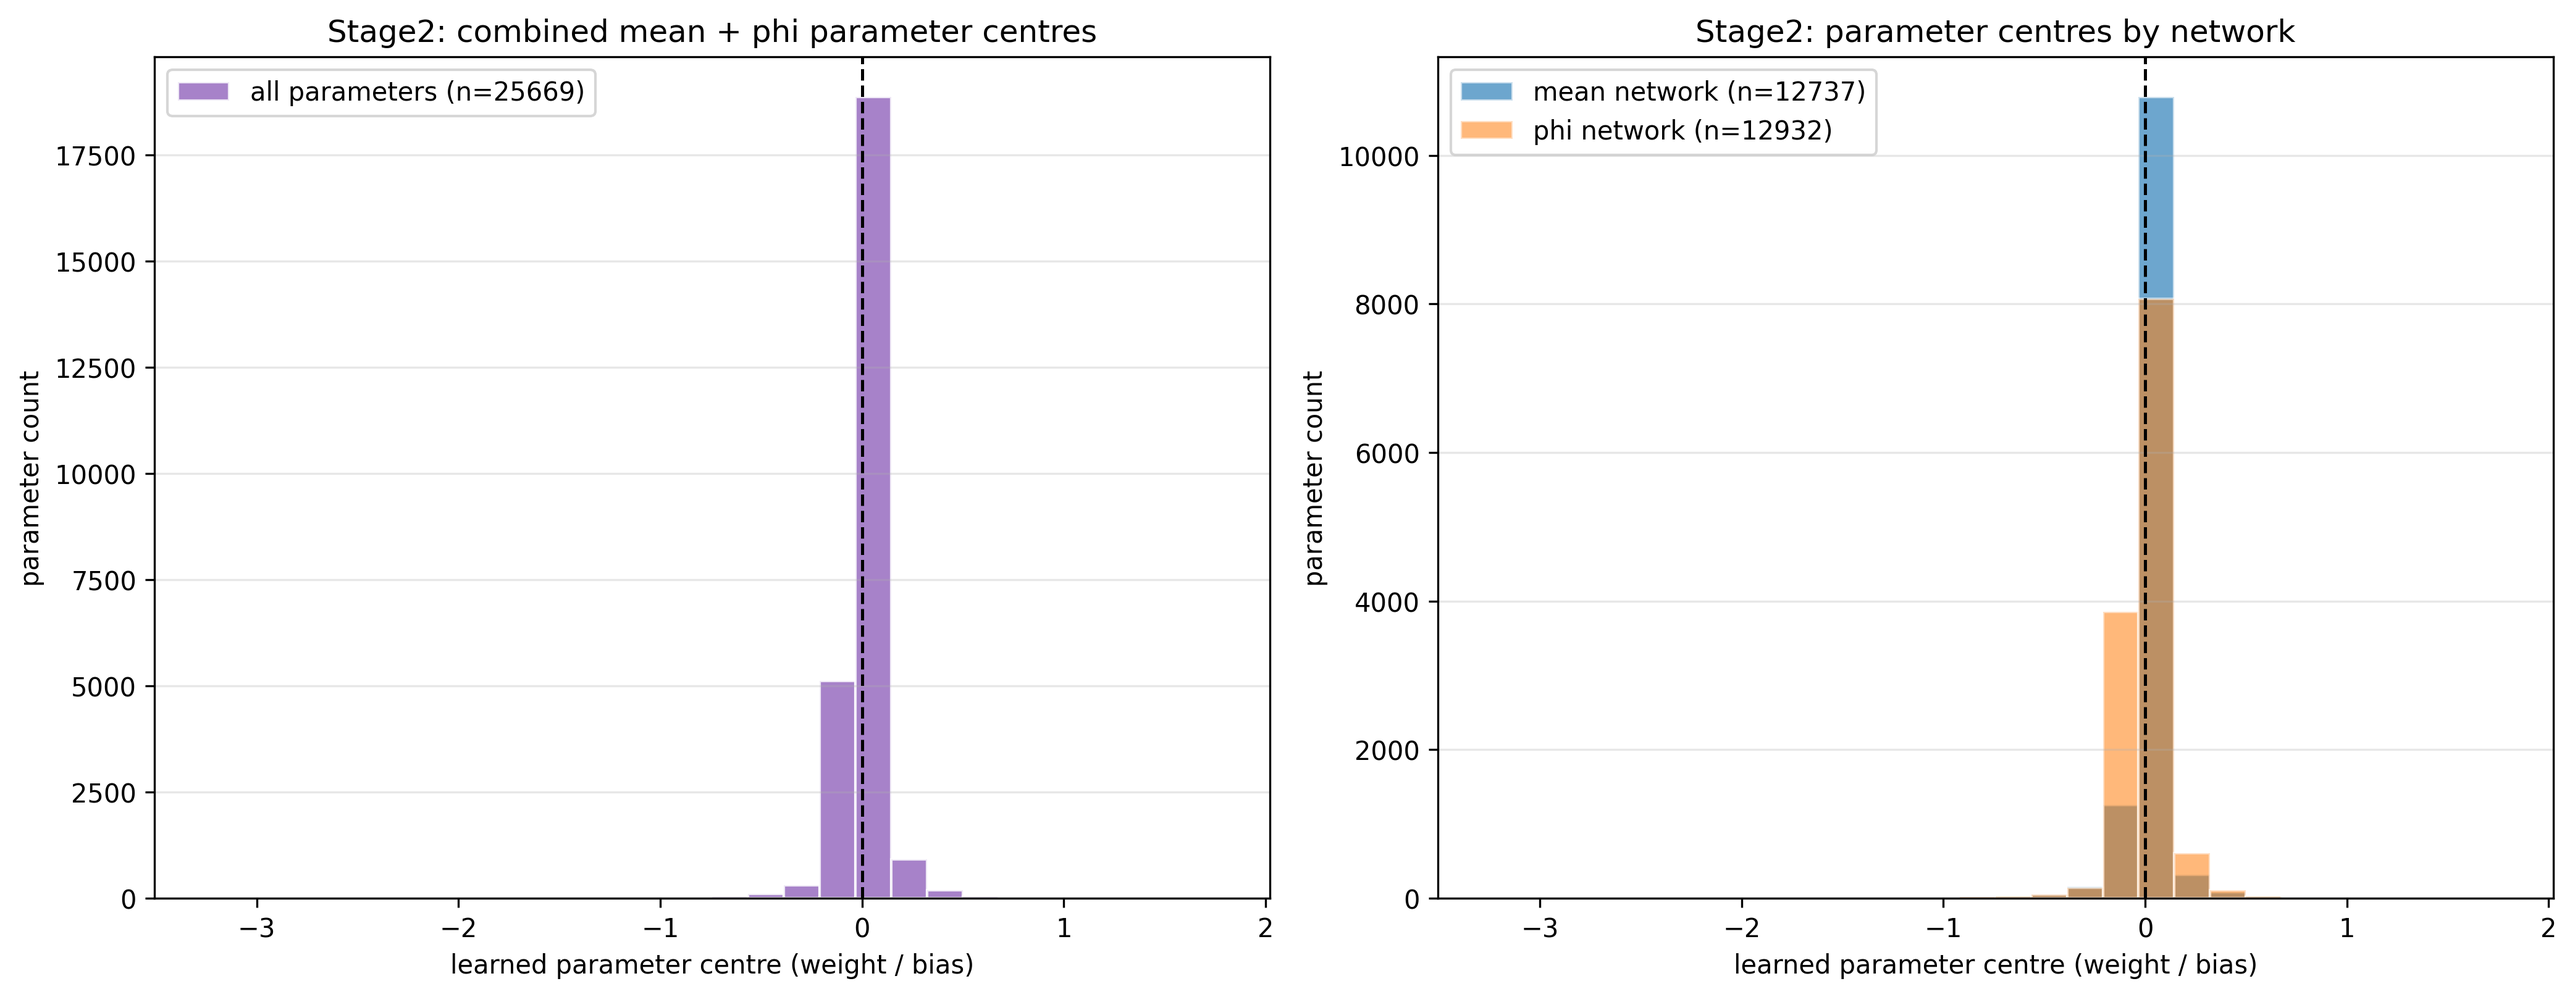
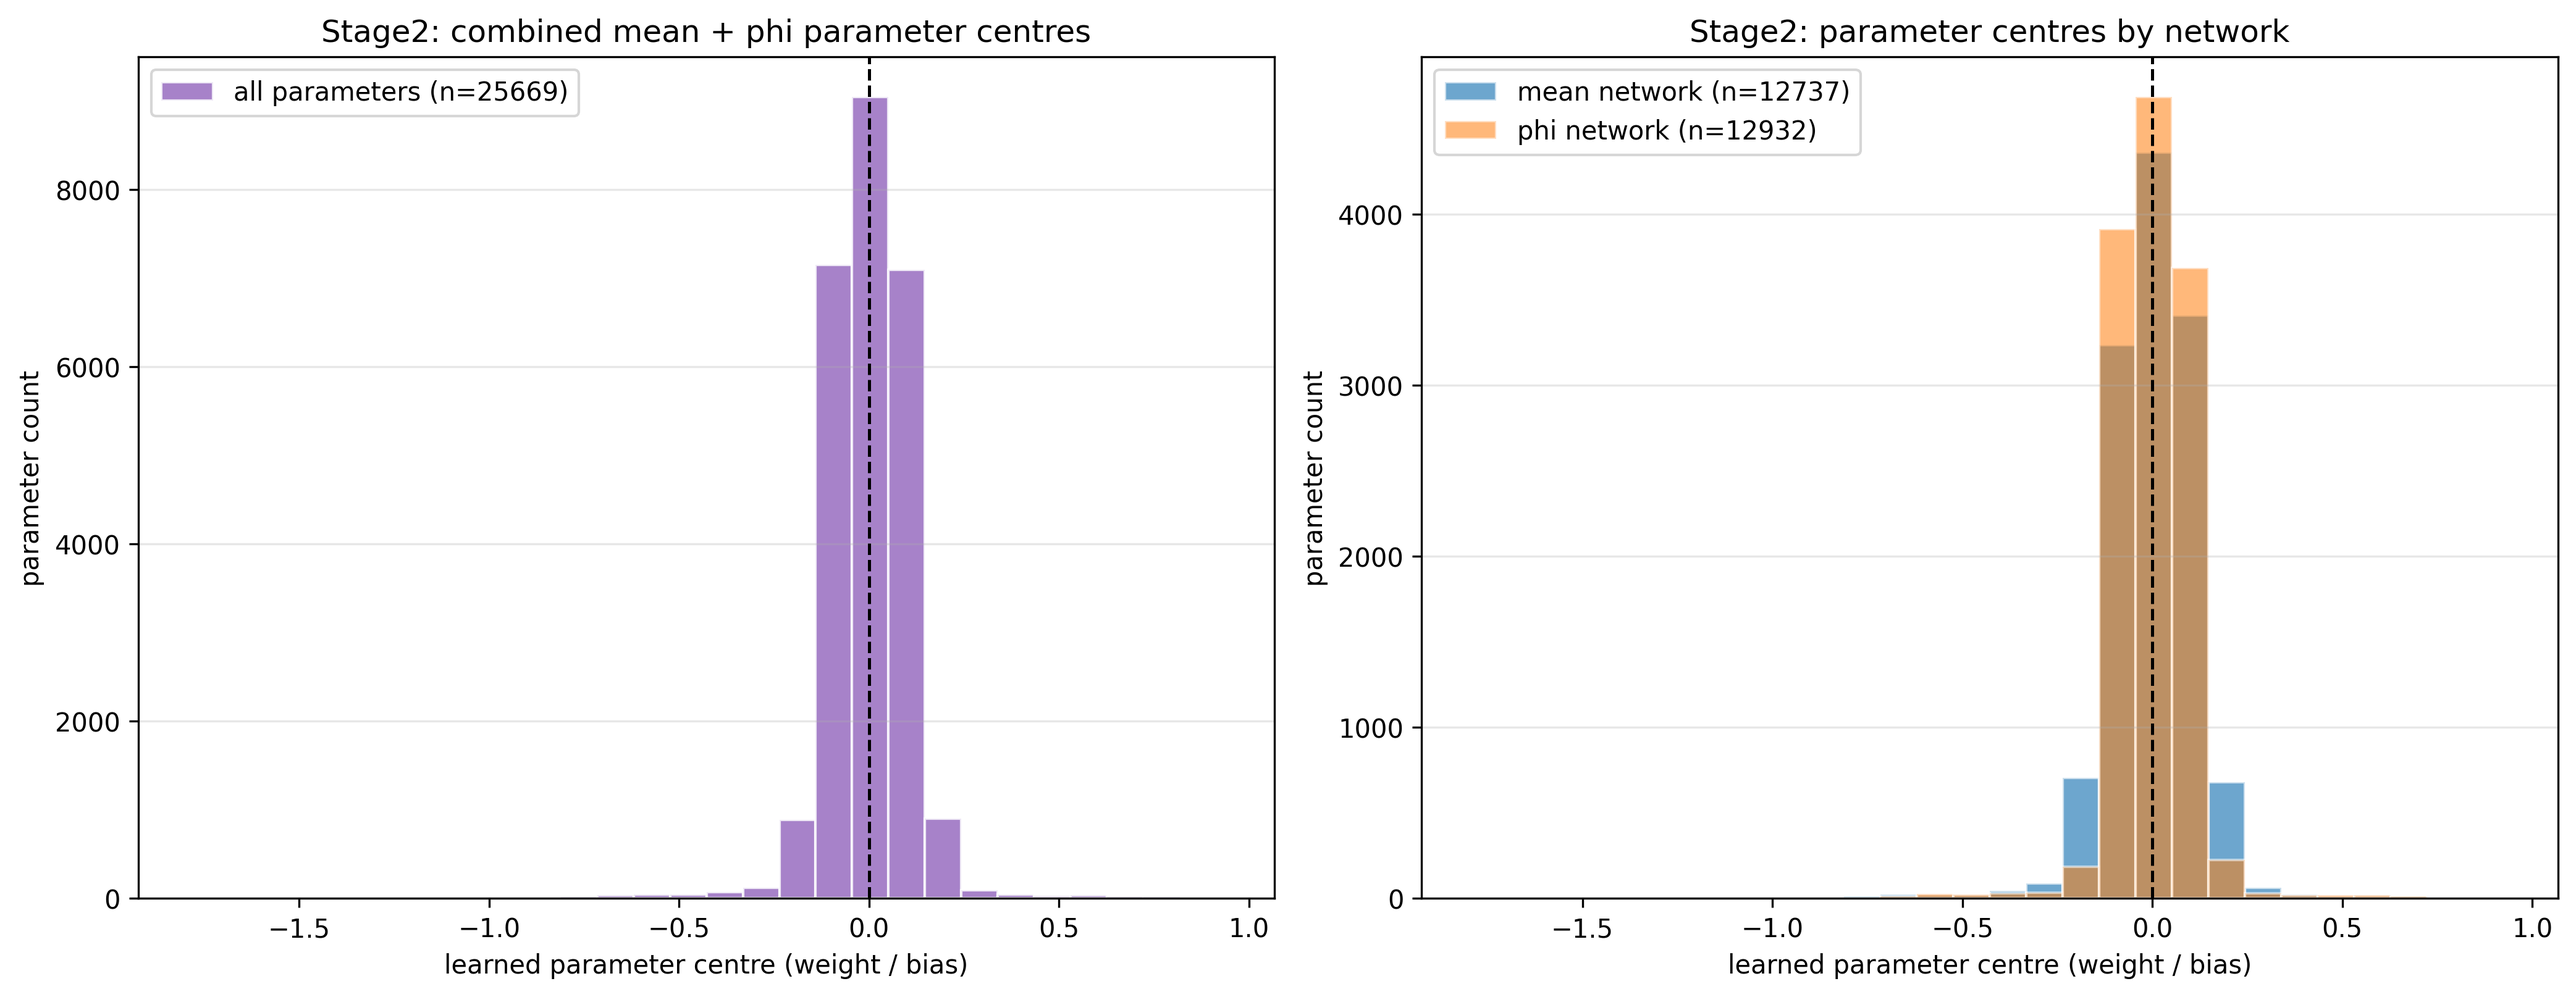
Delete guide loss in stage 2, since NN param mean is no longer trained in stage 2

diff --git a/learner.py b/learner.py
@@ -379,7 +379,7 @@ class Train(utils.ITrainAttrLog):
         else:
             loss, loss_nll, loss_kl = self.model.loss(
                 x_batch, y_batch, use_sampling=use_sampling, include_kl=True,
-                include_mean_guide=True, include_phi_guide=True)
+                include_mean_guide=False, include_phi_guide=False)
         loss.backward()
 
         optimizer.step()

diff --git a/README.md b/README.md
@@ -1,11 +1,15 @@
-### 20260829 origin
-    train main and kernel separately and use pretraining (and pretrain guided loss) to train BNN
+### 2026-08-29 origin
+- train main and kernel separately and use pretraining (and pretrain guided loss) to train BNN
 
-### 20260831 update
-    change KL normalize to full train dataset size instead of mini-batch size
+### 2026-08-31 update
+- change KL normalize to full train dataset size instead of mini-batch size
 
-### 20260901 update
-    Delete P (basis function coeffient $\theta$ uncertainty) of kernel from stage 2 ELBO training, add data restore folder. 
+### 2026-09-01 update
+- Delete P (basis function coefficient $\theta$ uncertainty) of kernel from stage 2 ELBO training, add data restore folder. 
 
-### 20260902 update
-    ELBO training only train std of network params
+### 2026-09-02 update 1
+- ELBO training only train std of network params
+
+### 2026-09-02 update 2
+- Delete guide loss from pretrain in stage 2
+    
